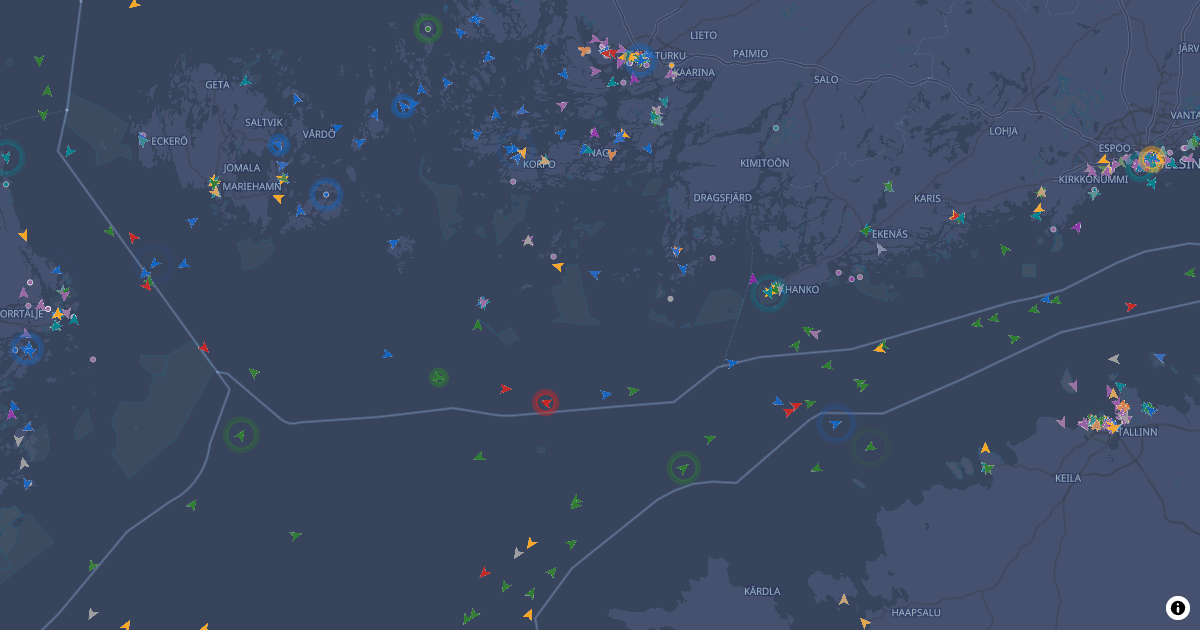
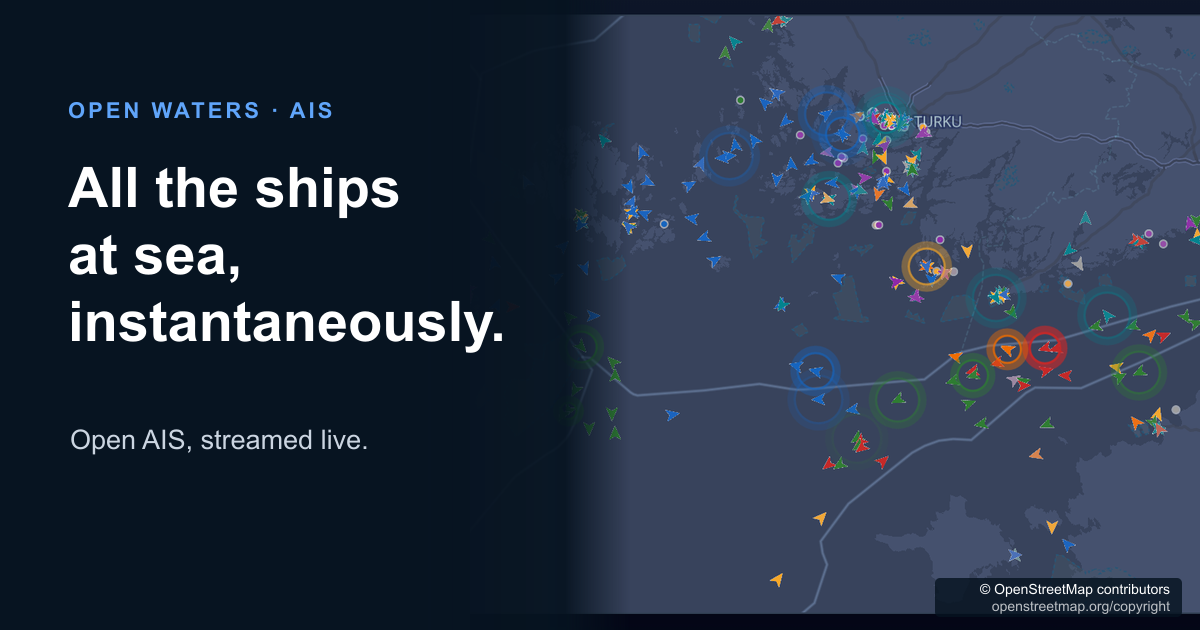
feat(ais): add branded social image

diff --git a/website/src/utils/agent-files.test.ts b/website/src/utils/agent-files.test.ts
@@ -135,6 +135,16 @@ test("sky metadata uses its own 1200x630 social image", { skip }, () => {
   assert.deepEqual([image.readUInt32BE(16), image.readUInt32BE(20)], [1200, 630]);
 });
 
+test("AIS metadata uses its own 1200x630 social image", { skip }, () => {
+  const html = read("ais/index.html");
+  const src = html.match(/property="og:image" content="([^"]+)"/)?.[1];
+  const image = readBuffer("og/ais.png");
+
+  assert.equal(src, "https://openwaters.io/og/ais.png");
+  assert.equal(image.toString("ascii", 1, 4), "PNG");
+  assert.deepEqual([image.readUInt32BE(16), image.readUInt32BE(20)], [1200, 630]);
+});
+
 test("homepage Organization schema has a contactPoint", { skip }, () => {
   const html = read("index.html");
   const blocks = [
